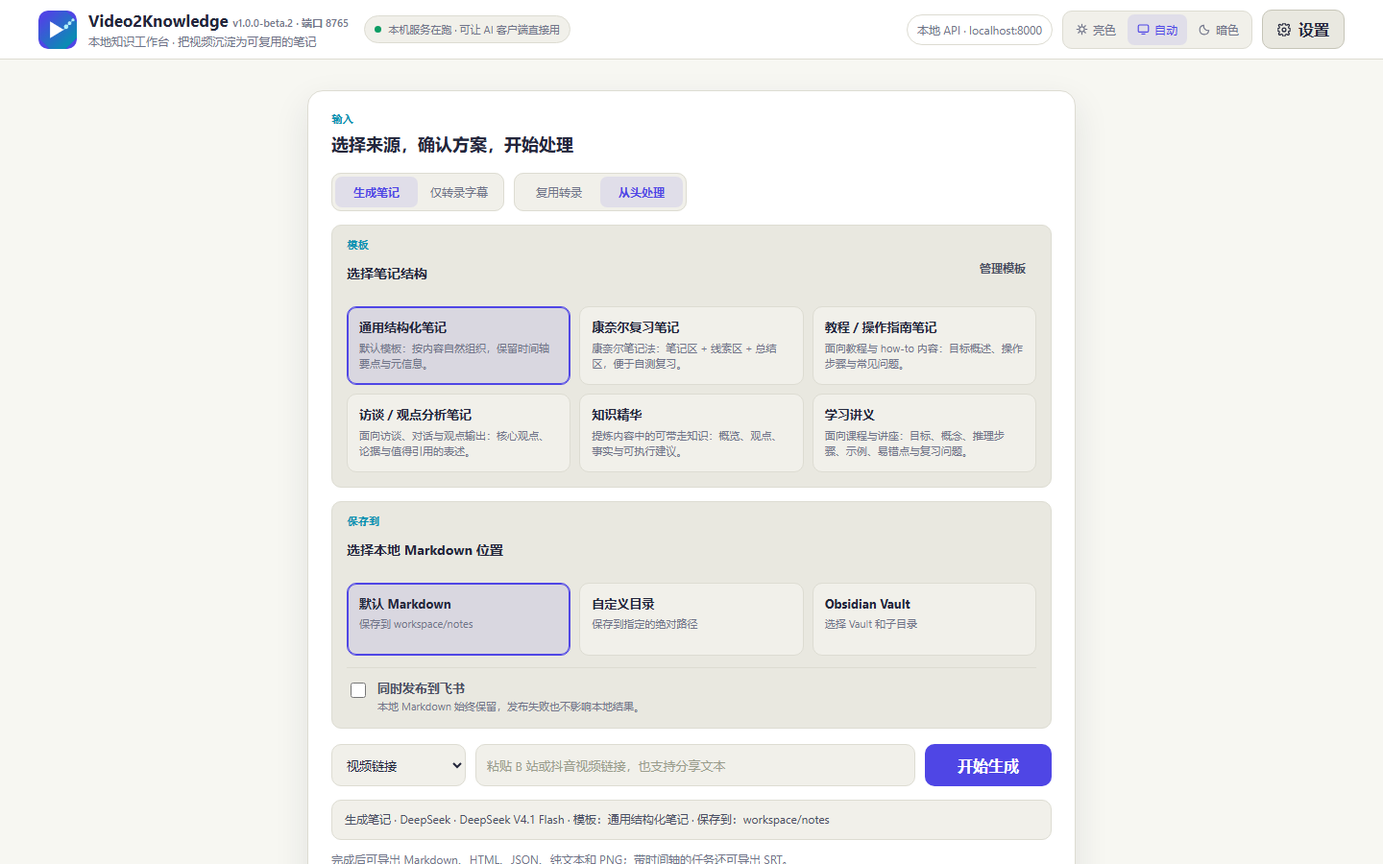
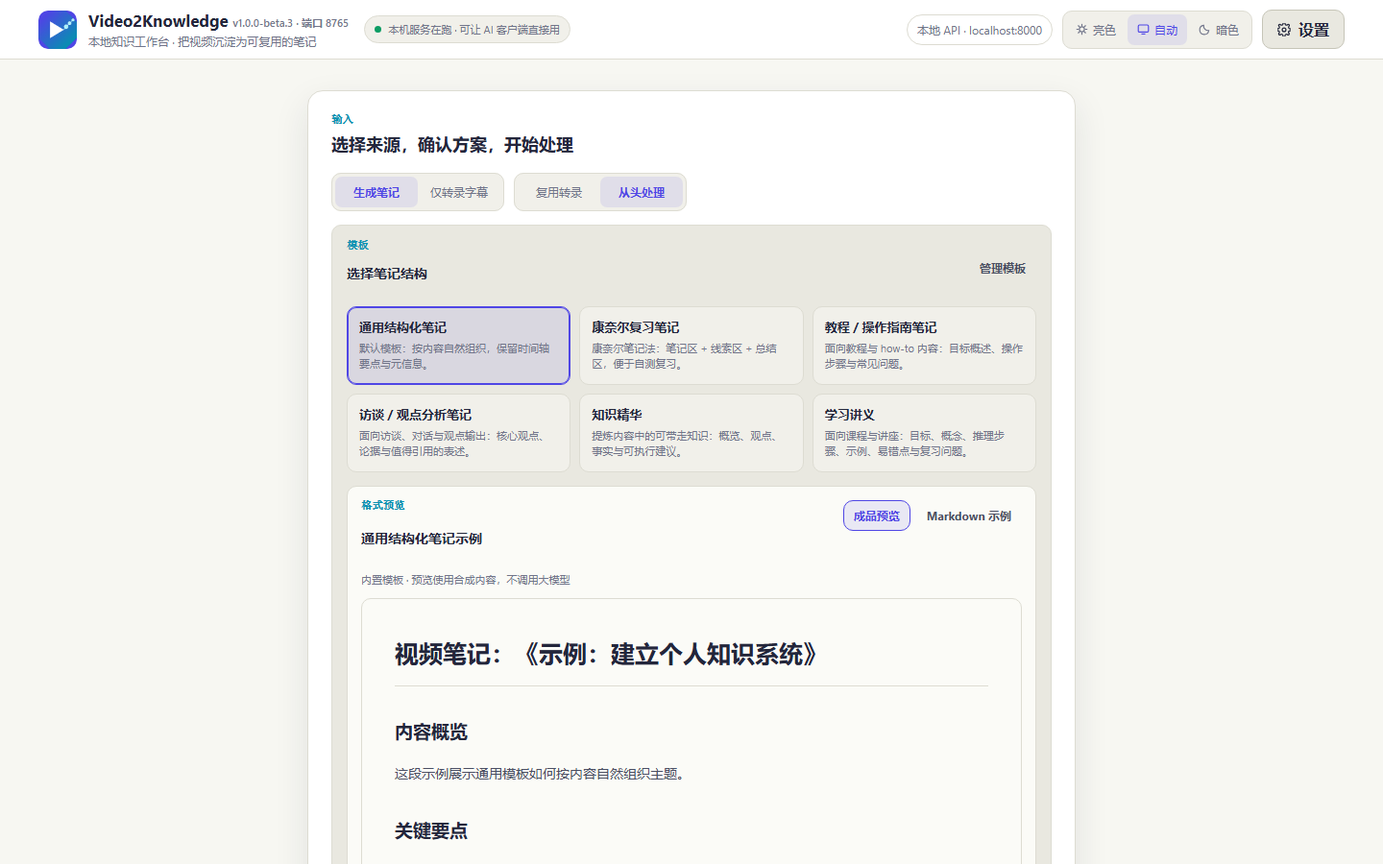
docs: prepare Video2Knowledge beta.3

diff --git a/PRD.md b/PRD.md
@@ -6,6 +6,7 @@
 - From `v1.0.0-beta.1` the project uses an **independent version line**: `1.0.0-beta.N` → `1.0.0-rc.N` → `1.0.0`. The transitional `v1.4.2-v2k.N` line always sorts below the independent line in update checks. `product_info.py` is the single source for the product name, version, environment-variable prefixes, and release metadata consumed by the launcher, backend, build script, and release workflow.
 - The Windows portable artifact for this line is `Video2Knowledge-<version>-portable.exe`; `v1.0.0-beta.1` has passed its local and downloaded-release acceptance gates and is published as a GitHub Pre-release.
 - `v1.0.0-beta.2` keeps the same task/API contracts while making templates, local Markdown destinations, optional Feishu publication, and export formats visible in the task flow. Its release evidence is recorded separately from the already accepted beta.1 artifact.
+- `v1.0.0-beta.3` adds deterministic template previews, manifest-backed history search/filter/pagination, local note favorites, and offline source recognition with transcript-reuse hints. It does not add a new downloader or a platform-account favorites sync.
 
 ## Compatibility boundaries of the rebrand
 
@@ -89,7 +90,7 @@ No Xiaoe-tech URL downloader, credential collector, sniffing, DRM or decryption 
 
 The note-template milestone is complete locally with the following contract:
 
-1. Four read-only built-in templates are available: General Structured Notes (default), Cornell Review Notes, Tutorial / How-to Notes, and Interview / Viewpoint Analysis.
+1. Six read-only built-in templates are available: General Structured Notes (default), Cornell Review Notes, Tutorial / How-to Notes, Interview / Viewpoint Analysis, Knowledge Essentials, and Study Lecture.
 2. A user can clone a built-in template, then create, edit, and delete custom templates stored by the backend.
 3. A template contains a name, description, LLM organization instructions, and a deterministic Markdown layout.
 4. Layouts accept only a documented placeholder allowlist and must contain exactly one `{{content}}` placeholder. They never execute Jinja, Python, JavaScript, shell, or other user code.
@@ -99,6 +100,7 @@ The note-template milestone is complete locally with the following contract:
 8. Each task records the selected template ID, version, and an immutable snapshot so later template edits do not rewrite task history.
 9. LLM failure leaves the timestamped transcript available.
 10. Focused tests and the complete `pytest` suite pass before one local milestone commit is created.
+11. Every template exposes a deterministic preview made from synthetic content. Preview rendering reuses the same one-pass layout substitution, never calls an LLM, and never reads a user note.
 
 ## Upstream capability and successor gaps
 
@@ -107,13 +109,15 @@ The note-template milestone is complete locally with the following contract:
 | Subtitle preference and ASR fallback | `prefer_subtitles` defaults to true; platform subtitles and automatic captions are checked before local ASR; regression tests cover subtitle reuse and ASR paths. A frozen Windows build completed an offline local-media smoke through its isolated ASR child with the cached Whisper `small` model. A separately authorized short synthetic-SRT smoke also completed through DeepSeek `deepseek-flash` without entering download or ASR. | Source and packaged offline transcription paths are accepted for the first successor prerelease. The real-provider evidence is intentionally limited to one short DeepSeek note task and is not a general Provider guarantee. |
 | Markdown and transcript artifacts | Upstream writes UTF-8 `notes.md`, `transcript.md`, and `transcript.json`, and exposes completed transcripts through API/MCP paths. | Upstream capability present. |
 | Selected directory or Vault output | Note tasks accept an optional absolute final-note destination. Custom destinations receive only the final Markdown and referenced task attachments; leaving it empty preserves `workspace/notes`. Collision, Unicode-path, invalid-path, and credential-boundary tests cover the contract. | Successor customization implemented. A downloaded release asset completed the real chain from imported SRT through DeepSeek to one Markdown file in an isolated custom destination. |
-| Personal Markdown template | Four immutable built-ins, backend-stored custom templates, safe deterministic layouts, task snapshots, transcript-reuse regeneration, and frontend management are covered by code and tests. | Successor customization implemented locally. |
+| Personal Markdown template | Six immutable built-ins, backend-stored custom templates, safe deterministic layouts and previews, task snapshots, transcript-reuse regeneration, and frontend management are covered by code and tests. | Successor customization implemented locally. |
 | Credential safety | API keys use masked/encrypted local storage on Windows, are bound to endpoints, and errors are scrubbed before persistence. Temporary platform cookie files are deleted. | Covered by code and tests. In the limited DeepSeek smoke, a page-session Key was not saved, `llm_keys.json` was not created, and no key-shaped value or authorization field appeared in the task files, output note, or app log. |
 | Media retention | Successful notes retain immediate owned-media cleanup. Failed/cancelled retry media is retained forever by default, with optional 1/7/30-day cleanup. Manifests, notes, transcripts, frames, unknown files and active reuse sources are preserved; uncertain deletion produces warnings. | Success-only cleanup and opt-in age cleanup implemented locally. |
 | Same-name output | Default and custom destinations use exclusive creation, safe Unicode filenames, and `-2`, `-3`, and later suffixes. Controlled race tests cover notes and attachment directories without overwriting foreign content. | Covered by automated tests. |
 | LLM failure preserves transcript | Transcript artifacts are written before the LLM step and remain readable for failed note tasks. | Covered by code and tests. |
 | Unicode and Frontmatter | UTF-8 reads/writes, Chinese filenames, Unicode destination paths, URI-encoded attachment links, deterministic YAML Frontmatter, and YAML-sensitive Unicode escaping are tested. | Covered by automated tests. |
-| Brand and workspace UI | Product metadata is centralized in `product_info.py`; the frontend implements the Knowledge Studio layout per `DESIGN.md` with the element-ID contract guarded by `tests/test_frontend_hygiene.py`; brand assets are generated reproducibly by repository scripts. | Brand baseline released in `v1.0.0-beta.1`; beta.2 adds task-flow discoverability for six templates, three local destination modes, optional Feishu publication and explicit export actions. |
+| Brand and workspace UI | Product metadata is centralized in `product_info.py`; the frontend implements the Knowledge Studio layout per `DESIGN.md` with the element-ID contract guarded by `tests/test_frontend_hygiene.py`; brand assets are generated reproducibly by repository scripts. | Brand baseline released in `v1.0.0-beta.1`; beta.2 adds task-flow discoverability; beta.3 adds template previews, local history/favorites, and offline source/reuse guidance. |
+| Local history and favorites | `GET /api/tasks` queries compact summaries from persisted task manifests with filters and pagination; one old task is restored only when opened. Completed note tasks can store a local `favorite` flag atomically in `task.json`. | Implemented for beta.3 without a database or Markdown-body scan. Favorites are local metadata, not platform-account collections. |
+| Offline source guidance | `POST /api/source-inspect` classifies the URL host and looks for an existing reusable transcript without contacting the platform, reading cookies, or starting download/ASR. | Bilibili, Douyin, and YouTube are labelled focused; TikTok, Xiaohongshu, and other URLs remain generic compatibility only. |
 
 ## Ordered successor roadmap
 
@@ -128,13 +132,16 @@ The note-template milestone is complete locally with the following contract:
 9. Limited real note chain: the GitHub Release EXE completed `short synthetic SRT -> DeepSeek deepseek-flash -> built-in template -> one Markdown file in an isolated custom destination`. This closes the first end-to-end evidence gap without claiming broad Provider, long-video, public-platform or network compatibility.
 10. Independent brand, version line, and Knowledge Studio UI: implemented locally. Product metadata is driven by `product_info.py`; the legacy service id, environment-variable aliases, browser preferences, and MCP/Skill discovery remain compatible; local UI automation and visual acceptance have passed.
 11. `v1.0.0-beta.1` release: **complete**. The final local gate passed with `693 passed, 3 skipped`; the branded EXE, cached-model packaged ASR, legacy-environment/static-resource smoke and candidate SHA-256 passed. `main`, the annotated tag and GitHub Pre-release are published; the downloaded EXE matched its checksum and GitHub digest and passed the same offline ASR smoke. Repository Description and Topics were read back successfully.
-12. `v1.0.0-beta.2` template and export discoverability: **implemented locally, release acceptance pending**. Six built-in templates and custom templates are selectable on the main page; default/custom/Obsidian Markdown destinations are explicit; Feishu remains an opt-in additional publication; export labels identify Markdown, SRT, HTML, JSON, plain text and PNG without changing request fields or task formats.
+12. `v1.0.0-beta.2` template and export discoverability: **released and remotely re-verified**. Six built-in templates and custom templates are selectable on the main page; default/custom/Obsidian Markdown destinations are explicit; Feishu remains an opt-in additional publication; export labels identify Markdown, SRT, HTML, JSON, plain text and PNG without changing request fields or task formats.
+13. `v1.0.0-beta.3` history and template experience: **implemented locally; release acceptance pending**. Deterministic previews use synthetic content; history reads compact manifest summaries with filters/pagination and lazy task opening; favorites are local completed-note metadata; source inspection is offline and only guides the existing reuse/restart behavior.
 
 ## Non-goals for the current phase
 
 - Xiaoe-tech URL downloading or merchant OpenAPI integration;
 - Feishu Wiki/docx import, overwrite or sync, permission management, and automatic login;
 - automated cookie management;
+- platform-account favorites, playlists, or collection synchronization;
+- dedicated TikTok or Xiaohongshu download adapters;
 - bypassing platform login, verification, or access controls;
 - a complete Obsidian plugin;
 - custom Agent or MCP product work;

diff --git a/README_EN.md b/README_EN.md
@@ -2,7 +2,7 @@
   <img src="sources/icon.png" width="96" alt="Video2Knowledge icon">
 </p>
 
-<h1 align="center">Video2Knowledge v1.0.0-beta.2</h1>
+<h1 align="center">Video2Knowledge v1.0.0-beta.3</h1>
 
 <p align="center"><em>A local knowledge studio: turn videos into Markdown notes you can revisit</em></p>
 
@@ -14,7 +14,7 @@ Project documents: [Product baseline](PRD.md) · [Current status](PROJECT_STATUS
 
 <p align="center"><span style="white-space: nowrap;"><a href="https://github.com/Eternal-HAC/Video2Knowledge-next/releases"><img style="display: inline-block; vertical-align: middle;" src="https://img.shields.io/github/v/release/Eternal-HAC/Video2Knowledge-next?include_prereleases&display_name=tag&style=flat-square&label=release&color=2563eb" alt="Release"></a>&nbsp;<a href="LICENSE"><img style="display: inline-block; vertical-align: middle;" src="https://img.shields.io/github/license/Eternal-HAC/Video2Knowledge-next?style=flat-square&label=license&color=22c55e" alt="MIT License"></a>&nbsp;<img style="display: inline-block; vertical-align: middle;" src="https://img.shields.io/badge/frontend-Vanilla%20JS-E34F26?style=flat-square&logo=javascript&logoColor=white" alt="Frontend">&nbsp;<img style="display: inline-block; vertical-align: middle;" src="https://img.shields.io/badge/backend-FastAPI-009688?style=flat-square&logo=fastapi&logoColor=white" alt="Backend">&nbsp;<img style="display: inline-block; vertical-align: middle;" src="https://img.shields.io/badge/Python-3.11-3776AB?style=flat-square&logo=python&logoColor=white" alt="Python 3.11"></span></p>
 
-<p align="center"><a href="https://github.com/Eternal-HAC/Video2Knowledge-next/releases/tag/v1.0.0-beta.2"><strong>⬇ Download the Windows portable build (v1.0.0-beta.2)</strong></a></p>
+<p align="center"><a href="https://github.com/Eternal-HAC/Video2Knowledge-next/releases/tag/v1.0.0-beta.3"><strong>⬇ Download the Windows portable build (v1.0.0-beta.3)</strong></a></p>
 
 ## Product positioning
 
@@ -32,13 +32,13 @@ These screenshots are generated from the real page by `scripts/capture_readme_sc
 
 <p align="center"><img src="sources/knowledge-studio-home.png" alt="Video2Knowledge Knowledge Studio home: templates, destinations, source, and task submission" width="100%"></p>
 
-### Progress
+### Local history and favorites
 
-<p align="center"><img src="sources/knowledge-studio-progress.png" alt="Video2Knowledge task progress and runtime log" width="100%"></p>
+<p align="center"><img src="sources/knowledge-studio-history.png" alt="Video2Knowledge local task history, filters, and note favorites" width="100%"></p>
 
-### Result
+### Note-template preview
 
-<p align="center"><img src="sources/knowledge-studio-result.png" alt="Markdown note produced by Video2Knowledge" width="100%"></p>
+<p align="center"><img src="sources/knowledge-studio-template-preview.png" alt="Deterministic preview of the Study Lecture note template" width="100%"></p>
 
 ## ✨ Highlights
 
@@ -48,15 +48,18 @@ These screenshots are generated from the real page by `scripts/capture_readme_sc
 - 🧾 **Real timestamps**: keeps segment start and end times from captions or Whisper instead of asking the model to invent them; any transcript exports as a standard SubRip `.srt`.
 - 🧠 **Long-transcript handling**: chunks, merges and reduces long material while keeping context pressure under control, and checks that the note reaches the end of the material.
 - 📝 **Templates and destinations**: six read-only built-in templates and saved custom templates are selectable in the main workflow. Local Markdown always lands in the default folder, a custom directory, or an Obsidian Vault; Feishu is an optional additional publication.
+- 👁 **No-cost template previews**: selecting a template shows a rendered result and Markdown sample made from fixed synthetic content; previews never call an LLM or read an existing note.
+- 🗂 **Local history and favorites**: search and filter all local task manifests, load them in pages, and star completed notes locally. Older Markdown bodies are read only when opened.
+- 🔎 **Platform and reuse guidance**: a pasted URL is classified locally; when a reusable transcript exists, the UI offers explicit open, reuse, or restart actions without automatic submission.
 - 🖼 **Discoverable exports**: the result panel leads with Export Markdown and visibly offers SRT, HTML, JSON, plain text, and PNG, with optional video screenshots as note attachments.
 - 🤖 **Raw material for agents**: a connected agent can stop at the timestamped transcript — no LLM call and no API key for this machine, and it writes the notes in its own structure and style.
 - 🛡 **Local-first**: media downloads, transcription, and file generation happen locally; the service listens on `127.0.0.1` by default.
 
 ## 🚀 Install (Windows portable build)
 
-> **Release status**: `v1.0.0-beta.2` focuses on discoverable templates, destinations, and exports. Treat the GitHub Pre-release linked below and its checksum file as the authoritative downloadable assets. See [PROJECT_STATUS.md](PROJECT_STATUS.md) for acceptance evidence.
+> **Release status**: `v1.0.0-beta.3` focuses on template previews, local history/favorites, platform labels, and transcript-reuse guidance. Treat the GitHub Pre-release linked below and its checksum file as the authoritative downloadable assets. See [PROJECT_STATUS.md](PROJECT_STATUS.md) for acceptance evidence.
 
-No Python or development setup is required: download `Video2Knowledge-1.0.0-beta.2-portable.exe` from the [Release page](https://github.com/Eternal-HAC/Video2Knowledge-next/releases/tag/v1.0.0-beta.2):
+No Python or development setup is required: download `Video2Knowledge-1.0.0-beta.3-portable.exe` from the [Release page](https://github.com/Eternal-HAC/Video2Knowledge-next/releases/tag/v1.0.0-beta.3):
 
 1. Download and double-click the exe;
 2. Wait for the local page to open in your browser;
@@ -70,11 +73,11 @@ The portable build starts the local service and stays in the system tray. The fi
 After starting the app:
 
 1. Choose **Note** (needs an API key) or **Transcript only** (no LLM call and **no API key**; note templates and note destinations collapse automatically);
-2. For a note, choose one of the six built-in templates or a saved custom template in the main workflow;
+2. For a note, choose one of the six built-in templates or a saved custom template in the main workflow, then inspect the rendered or Markdown example below it;
 3. Choose the default Markdown folder, a custom directory, or an Obsidian Vault. Enable Feishu only as an additional publication; local Markdown is always retained;
 4. In Settings, choose the model profile, note style, transcription options, and API key;
-5. Paste a video URL or upload a local / subtitle file;
-6. Preview and copy the result, use the explicit **Export Markdown** action, or choose SRT, HTML, JSON, plain text, or PNG under **More export formats**. Existing transcripts can be reused to write a new note without re-running transcription.
+5. Paste a video URL or upload a local / subtitle file. URL classification happens locally, and an existing transcript produces explicit open, reuse, and restart choices;
+6. Preview and copy the result, use the explicit **Export Markdown** action, or choose SRT, HTML, JSON, plain text, or PNG under **More export formats**. Web tasks stay available in searchable, paginated local history, and completed notes can be starred locally.
 
 ## 🔁 Processing pipeline
 
@@ -93,7 +96,7 @@ LLM-generated timestamped Markdown note → chosen directory / Obsidian Vault / 
 ## 🌍 Supported inputs and compatibility boundaries
 
 - **Focused support**: Bilibili, Douyin, YouTube, and local media use the subtitle-first, local-ASR-fallback pipeline, with targeted regression tests and actionable errors.
-- **Generic compatibility**: other `http` / `https` video URLs the installed `yt-dlp` can parse are handled on a best-effort basis, without platform-specific guarantees.
+- **Generic compatibility**: TikTok, Xiaohongshu, and other `http` / `https` video URLs the installed `yt-dlp` can parse are handled on a best-effort basis, without platform-specific guarantees. The beta.3 badge is offline URL classification, not a live availability check.
 - **Pending adaptation**: platforms without dedicated adaptation (such as iQiyi or Tencent Video) depend on access permissions, caption availability, and `yt-dlp` behavior.
 - The project does not bypass payment, login, verification, membership, or region restrictions; platform interface changes can temporarily break parsing.
 
@@ -280,7 +283,7 @@ Publicly accessible videos normally do not need one. Some visible Chinese AI cap
 
 ### What happens to tasks after restarting the service?
 
-Video2Knowledge restores recent tasks from `workspace/<task-id>/task.json`. Completed tasks remain available for preview and download, and uploaded tasks that have not started can be submitted again. A task that was running during restart is marked failed because external downloads, ASR, and LLM requests cannot continue across processes; already generated captions, transcripts, and audio can still be reused on a later submission.
+Video2Knowledge queries complete local history from `workspace/<task-id>/task.json` while preloading only the newest batch; an older note body is read only when that item is opened. Completed tasks remain available for preview and download, and uploaded tasks that have not started can be submitted again. A task that was running during restart is marked failed because external downloads, ASR, and LLM requests cannot continue across processes; already generated captions, transcripts, and audio can still be reused on a later submission.
 
 ### Why can a particular URL not be processed?
 

diff --git a/PROJECT_STATUS.md b/PROJECT_STATUS.md
@@ -1,16 +1,18 @@
 # Project Status
 
-Updated: 2026-10-21
+Updated: 2026-10-22
 
 ## Current stage
 
-`Video2Knowledge v1.0.0-beta.2 published and remotely re-verified`
+`Video2Knowledge v1.0.0-beta.3 implemented locally; release acceptance in progress`
 
 The successor Fork and product baseline are established. The configurable final-note destination and approved note-template milestone are complete locally while preserving the upstream download, subtitle, ASR, task, and summary-style architecture.
 
 The product is now branded **Video2Knowledge** with an independent version line starting at `1.0.0-beta.1` (driven solely by `product_info.py`), an original script-generated logo, and a redesigned Knowledge Studio workspace per `DESIGN.md`. Local UI automation, visual acceptance, Windows candidate acceptance, remote publication, asset read-back and downloaded-release offline ASR have passed.
 
 The beta.2 release adds two safe built-in templates (Knowledge Essentials and Study Lecture), surfaces all built-in and custom templates in the main workflow, makes default/custom/Obsidian Markdown destinations explicit, keeps Feishu as an optional additional publication, and gives every result format an explicit export label. Existing request fields, task manifests, one-video-to-one-Markdown behavior, saved custom templates, Obsidian handling and Feishu publication logic remain compatible. The local candidate, published assets and downloaded Release executable have all passed the acceptance recorded below.
+
+The beta.3 implementation now adds deterministic synthetic template previews, manifest-backed history search/filter/pagination, lazy opening of older tasks, local favorites for completed notes, and offline URL support/reuse guidance. The first complete regression passed with `712 passed, 3 skipped`; visual, packaged, release, and downloaded-asset gates are still pending and must not be inferred from that result.
 
 The first successor customization was completed in commit `26a53be`: note tasks can export their final Markdown and referenced task attachments to a user-selected absolute directory, including an Obsidian Vault subdirectory. Leaving the destination empty preserves the upstream `workspace/notes` archive behavior. It is included with the later template, retention, destination, reliability and prerelease work in the successor release line.
 
@@ -38,7 +40,7 @@ Current code and tests show that the upstream-derived implementation already pro
 The successor customizations now provide:
 
 - dedicated output to a selected normal directory or Obsidian Vault, covered by automated tests.
-- four immutable built-in note templates and backend-managed custom templates;
+- six immutable built-in note templates and backend-managed custom templates;
 - safe single-pass Markdown layouts with immutable task snapshots and deterministic YAML Frontmatter;
 - template-aware short and long summarization without a second full-document LLM pass;
 - frontend template loading, creation, editing, cloning, deletion, and note-mode visibility behavior.
@@ -132,7 +134,17 @@ One-off, approval-gated live checks (distinct from the automated suite; no perma
 
 ## Next milestone
 
-The native Feishu online-docx, subtitle-import/SRT-export, static-resource media-type, model context-window diagnosis, long-note resilience, packaged ASR worker, title/page-aware artifact naming, transcript-archive/completion-page, and LLM test-connection key-read slices are complete locally; none implies a permanent platform, player, or provider guarantee. The selective upstream reliability sync and first Windows successor prerelease validation are complete. The brand-migration direction listed below has since been decided and implemented locally (see "Implemented independent brand and Knowledge Studio UI milestone"); remaining product directions still require separate decisions: proxy/diagnostics policy (without automatic proxy bypass), headless agent operation, and new platform or Feishu extensions.
+The beta.3 candidate is the active milestone. Remaining gates are visual/accessibility acceptance, Windows packaging, cached-model offline ASR, exact remote publication, downloaded-asset revalidation, and a post-release evidence commit. Separate future product decisions remain proxy/diagnostics policy (without automatic proxy bypass), headless agent operation, and new platform or Feishu extensions.
+
+## Implemented beta.3 history and template preview milestone
+
+- `/api/note-templates` adds a read-only `preview_markdown` to the existing template payload. Six built-ins use distinct fixed Chinese examples; custom templates use one fixed synthetic body through the existing one-pass layout renderer. The path does not call the summarizer, read user notes, create tasks, or persist preview data.
+- `GET /api/tasks` keeps the existing `tasks` field and adds compact manifest-backed search, status/output/platform/favorite filters, offset/limit pagination and `total`/`has_more`. Startup still preloads only `TASK_HISTORY_LIMIT`; opening an older item restores exactly that task and reads its Markdown only then.
+- `PATCH /api/task/{task_id}/favorite` atomically stores one optional boolean in `task.json` and accepts only completed note tasks. It does not rewrite the note, transcript, template snapshot, or task status. Favorites are local metadata and are unrelated to platform-account collections.
+- `POST /api/source-inspect` validates/classifies the URL host and reuses the existing transcript lookup. It performs no external request, cookie read, media/model download, ASR, or login. Bilibili, Douyin, and YouTube are shown as focused; TikTok, Xiaohongshu, and all other URLs remain generic compatibility only.
+- Frontend behavior: template cards update a rendered/Markdown preview; history is always visible with filters, load-more and accessible star controls; pasted links show non-blocking support and reuse/restart actions after a cancellable debounce. Existing task submission, polling, download, Obsidian, Feishu, and one-video-to-one-Markdown behavior remain in place.
+- Current automated evidence: focused backend/frontend/template suite `264 passed, 1 skipped`; first complete suite `712 passed, 3 skipped`; both JavaScript syntax checks and `git diff --check` passed. The three skips remain the existing Windows link/reparse permission cases. Build and release evidence is pending.
+- Visual evidence: the real page passed 1440×900 system-theme, 1024×768 light-theme, and 390×844 dark-theme capture checks with `scrollWidth == clientWidth`. The mobile template row scrolls inside its component, history filters form two columns, and visible focus/keyboard contracts remain covered by frontend tests. README home/history/template-preview images use only synthetic titles and an isolated empty workspace.
 
 ## Implemented beta.2 template and export discoverability milestone
 

diff --git a/DESIGN.md b/DESIGN.md
@@ -58,8 +58,9 @@
 1. **顶部应用栏**：标志、产品名与版本、服务状态、主题切换、设置入口（右侧）。
 2. **主阅读列**（单列、自上而下）：输出类型/处理方式（显式单选）→
    笔记模板卡片 → 本地 Markdown 目的地 + 飞书附加发布 →
-   来源 composer（来源类型 + 链接/文件 + 主操作）→ 当前方案摘要（一行，随选择实时更新）→
-   最近任务 → 处理进度（含失败面板与默认折叠的运行记录）→ 结果（操作区在预览上方）。
+   来源 composer（来源类型 + 链接/文件 + 主操作）→ 离线来源识别与复用提示 →
+   当前方案摘要（一行，随选择实时更新）→ 历史记录（筛选、分页、收藏）→
+   处理进度（含失败面板与默认折叠的运行记录）→ 结果（操作区在预览上方）。
 3. **设置面板**：从右侧滑出的可关闭面板，三组，顺序固定：
    `笔记生成`（总结模型、笔记风格、模板、推理强度、API Key）→
    `本地转录`（Whisper 模型、GPU、截图）→
@@ -112,12 +113,20 @@
   输出类型（生成笔记/仅转录）与处理方式（从头/复用）为分段单选控件。
 - **Template chooser**：六个内置模板与全部自定义模板共用一组卡片；内置模板桌面端
   三列，自定义模板顺序追加；卡片与设置中的 `#noteTemplate` 双向同步；加载失败时
-  明确提示且继续阻止提交。「管理模板」打开设置并把焦点移到现有模板编辑区。
+  明确提示且继续阻止提交。「管理模板」打开设置并把焦点移到现有模板编辑区。选中后
+  同步展示确定性合成预览，可在安全渲染的成品视图与 Markdown 示例之间切换；预览不
+  调用大模型、不读取用户笔记。
 - **Destination chooser**：本地目的地为默认 Markdown、自定义绝对路径、Obsidian Vault
   三选一；飞书是独立的附加发布开关。本地 Markdown 始终保留。显式选择自定义目录或
   Obsidian 后，对应必填输入缺失时在提交前阻止任务。
 - **Plan summary**：一行实时摘要（`#planSummary`，`aria-live="polite"`），
   跟随输出类型、模型档案/模型、模板、目的地与飞书开关更新。
+- **Source inspection**：链接停止输入约 500ms 后只在本机解析 hostname 并扫描任务清单；
+  显示重点支持或通用兼容标签。命中已有转录时提供打开历史、复用转录、重新处理三个
+  显式操作，不自动提交、不读取 Cookie、不联网探测平台。
+- **History**：始终可见；支持标题、状态、产物、平台和本地收藏筛选，每页 20 条并按需
+  加载更多。列表只读取任务摘要，打开旧任务时才读取对应正文。收藏用有名称和
+  `aria-pressed` 的星标按钮，仅适用于已完成笔记。
 - **Settings panel**：右侧抽屉（桌面 ≤400px，移动全宽），含关闭按钮与半透明遮罩；
   打开方式：设置按钮、MCP 芯片/提示、凭据引导；关闭方式：关闭按钮、遮罩点击、
   Escape。关闭后焦点回到设置按钮。
@@ -137,6 +146,8 @@
 - 最低宽度 320px；交互元素均有可访问名称（`aria-label`/`sr-only` 文本）。
 - 设置面板：打开后焦点移到「关闭」按钮，Escape 或关闭后焦点回到触发按钮，
   `aria-expanded` 同步；运行记录用语义化 `<details>/<summary>`。
+- 模板预览切换按钮同步 `aria-selected`；收藏按钮同步 `aria-pressed`，所有筛选框都有
+  可访问名称。
 - `prefers-reduced-motion: reduce` 时禁用面板滑入、进度流动等全部动效。
 
 ## Responsive behavior
@@ -161,6 +172,10 @@
 - 目的地：default / custom / obsidian；切换只展开对应输入，不清空旧自定义路径。
 - 飞书：默认关闭；开启后才展示文件夹和 lark-cli 状态，本地笔记完成状态独立。
 - 运行记录：默认折叠；任务失败自动展开；新任务开始时回到折叠。
+- 历史：empty / loading / filtered-empty / page-loaded；当前任务仍由原轮询实时更新，
+  收藏失败只显示错误，不乐观篡改本地状态。
+- 来源预检：idle / focused / generic / reusable；新输入会取消上一次请求，失败时隐藏提示，
+  不阻断正常提交。
 - 提示条（B 站凭据、MCP）：可忽略，忽略状态记入浏览器偏好（不含敏感信息）。
 
 ## Content voice
@@ -172,8 +187,9 @@
 
 ## Implementation constraints
 
-- 不改后端 API、任务清单格式与业务语义；DOM 重排必须保留 `script.js` 绑定的全部
-  元素 ID（由 `tests/test_frontend_hygiene.py` 守护）。
+- 不破坏已有后端 API、任务请求与业务语义；Beta.3 只增加兼容的历史查询参数、收藏端点、
+  来源预检端点和可选 manifest 字段。DOM 重排必须保留 `script.js` 绑定的全部元素 ID
+  （由 `tests/test_frontend_hygiene.py` 守护）。
 - CSP 保持 self-only，不新增内联脚本、外部资源或依赖；`script.js` 只新增布局交互
   和现有字段的偏好映射，不重写提交、轮询、凭据、留存或飞书业务逻辑。
 - 前端资源改动必须 bump `index.html` 中 `script.js?v=YYYYMMDD-N` 缓存版本。
@@ -192,3 +208,6 @@
 video-fetcher-to-markdown、course2md 与 YouTube Transcript Notes 的公开交互思路。
 本项目没有复制这些项目的代码、提示词、图标或其他资产；实现继续建立在本仓库原有的
 模板存储、单篇 Markdown、Obsidian、飞书和导出管线上。
+
+Beta.3 的预览与历史同样只复用本仓库现有模板、任务清单和转录复用机制。没有引入第三方
+历史数据库、收藏服务、平台 SDK 或新下载适配器。

diff --git a/DECISIONS.md b/DECISIONS.md
@@ -158,6 +158,14 @@ Review condition: Revisit if the compatibility shims (legacy service id, environ
 
 Decision: Starting with `v1.0.0-beta.2`, show all six built-in templates and saved custom templates before submission, followed by an explicit local Markdown destination choice: default `workspace/notes`, custom absolute directory, or Obsidian Vault. Feishu remains a separate opt-in additional publication. The result area names the current export action and exposes the other existing formats under a visible label. One input still produces one Markdown note.
 
+## 2026-10-22: Keep beta.3 history, favorites, previews, and source guidance local
+
+Decision: Build template previews from fixed synthetic content through the existing one-pass layout renderer. Query history directly from compact `task.json` summaries with filters and pagination, restore an older task only when it is opened, and store a completed note's optional `favorite` flag atomically in that task manifest. Inspect a pasted URL by hostname plus existing local manifests only; use the result to label support and expose the existing transcript reuse choice.
+
+Reason: These changes make existing local capabilities discoverable without adding a database, a second template format, another LLM call, a platform network probe, or an account synchronization service.
+
+Impact: Local favorites are unrelated to Bilibili, Douyin, YouTube, TikTok, or Xiaohongshu account collections. TikTok and Xiaohongshu remain generic `yt-dlp` compatibility claims. Source inspection never validates live availability and never replaces the downloader's final decision.
+
 Reason: The template, Obsidian, Feishu and export pipelines already existed, but placing their controls only in the settings drawer made working features look absent. Improving discoverability reuses the mature storage and publication paths and avoids a second template system or destination API.
 
 Alternatives considered: keep every control in Settings (rejected because users could not discover core product choices); add a second frontend-only template or export pipeline (rejected because it would duplicate validated backend behavior); split notes into multiple linked files or build an automatic knowledge graph (deferred as a separate product scope).

diff --git a/TODO.md b/TODO.md
@@ -24,6 +24,18 @@ This file holds only the active gap-verification queue. For every item: close it
    - Unicode UTF-8 output, Chinese filenames, and Unicode custom destination paths are covered.
    - Closed by deterministic YAML Frontmatter that omits unavailable values and safely escapes YAML-sensitive Unicode code points.
 
+## Active release task
+
+- [ ] `v1.0.0-beta.3` history and template preview release:
+  1. [x] Add deterministic previews for six built-ins and custom layouts without an LLM call or user-note read.
+  2. [x] Upgrade local history with manifest-backed search, filters, pagination, lazy task opening, and completed-note favorites.
+  3. [x] Add offline URL platform labels and reusable-transcript hints without network, cookies, download, or ASR.
+  4. [x] Focused tests and the first complete regression passed with `712 passed, 3 skipped`; no skip was added.
+  5. [x] Finish 1440/1024/390 system/light/dark and keyboard-contract acceptance; regenerate synthetic home, history, and template-preview screenshots without page-level horizontal scrolling.
+  6. [ ] Build and inspect `Video2Knowledge-1.0.0-beta.3-portable.exe`; pass isolated packaged history/favorite/source inspection and cached-Whisper `small` ASR smoke.
+  7. [ ] Push `main`, publish the annotated tag and Pre-release, verify the downloaded assets and rerun packaged smoke checks.
+  8. [ ] Record remote evidence in a post-release documentation commit without moving the release tag.
+
 ## Later roadmap
 
 1. [x] Optional age-based cleanup of failed/cancelled-task media: implemented locally.
